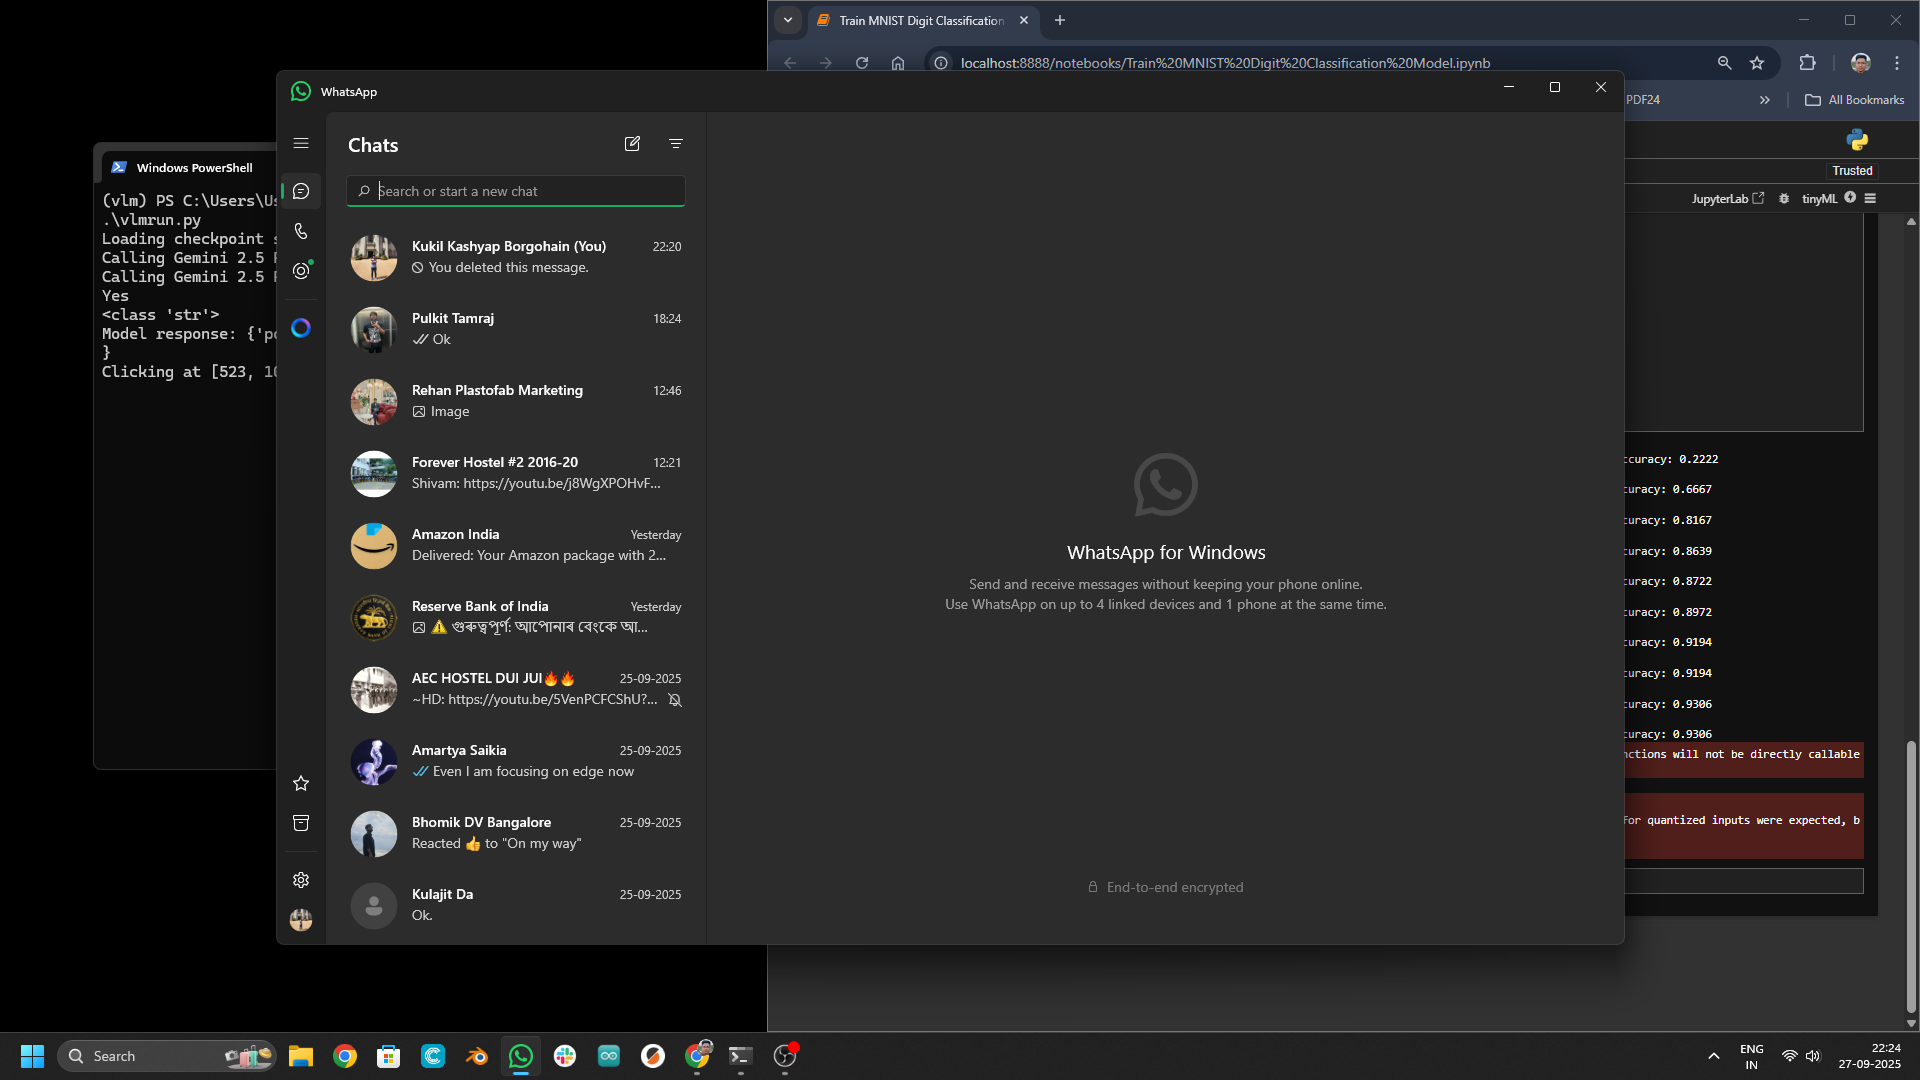
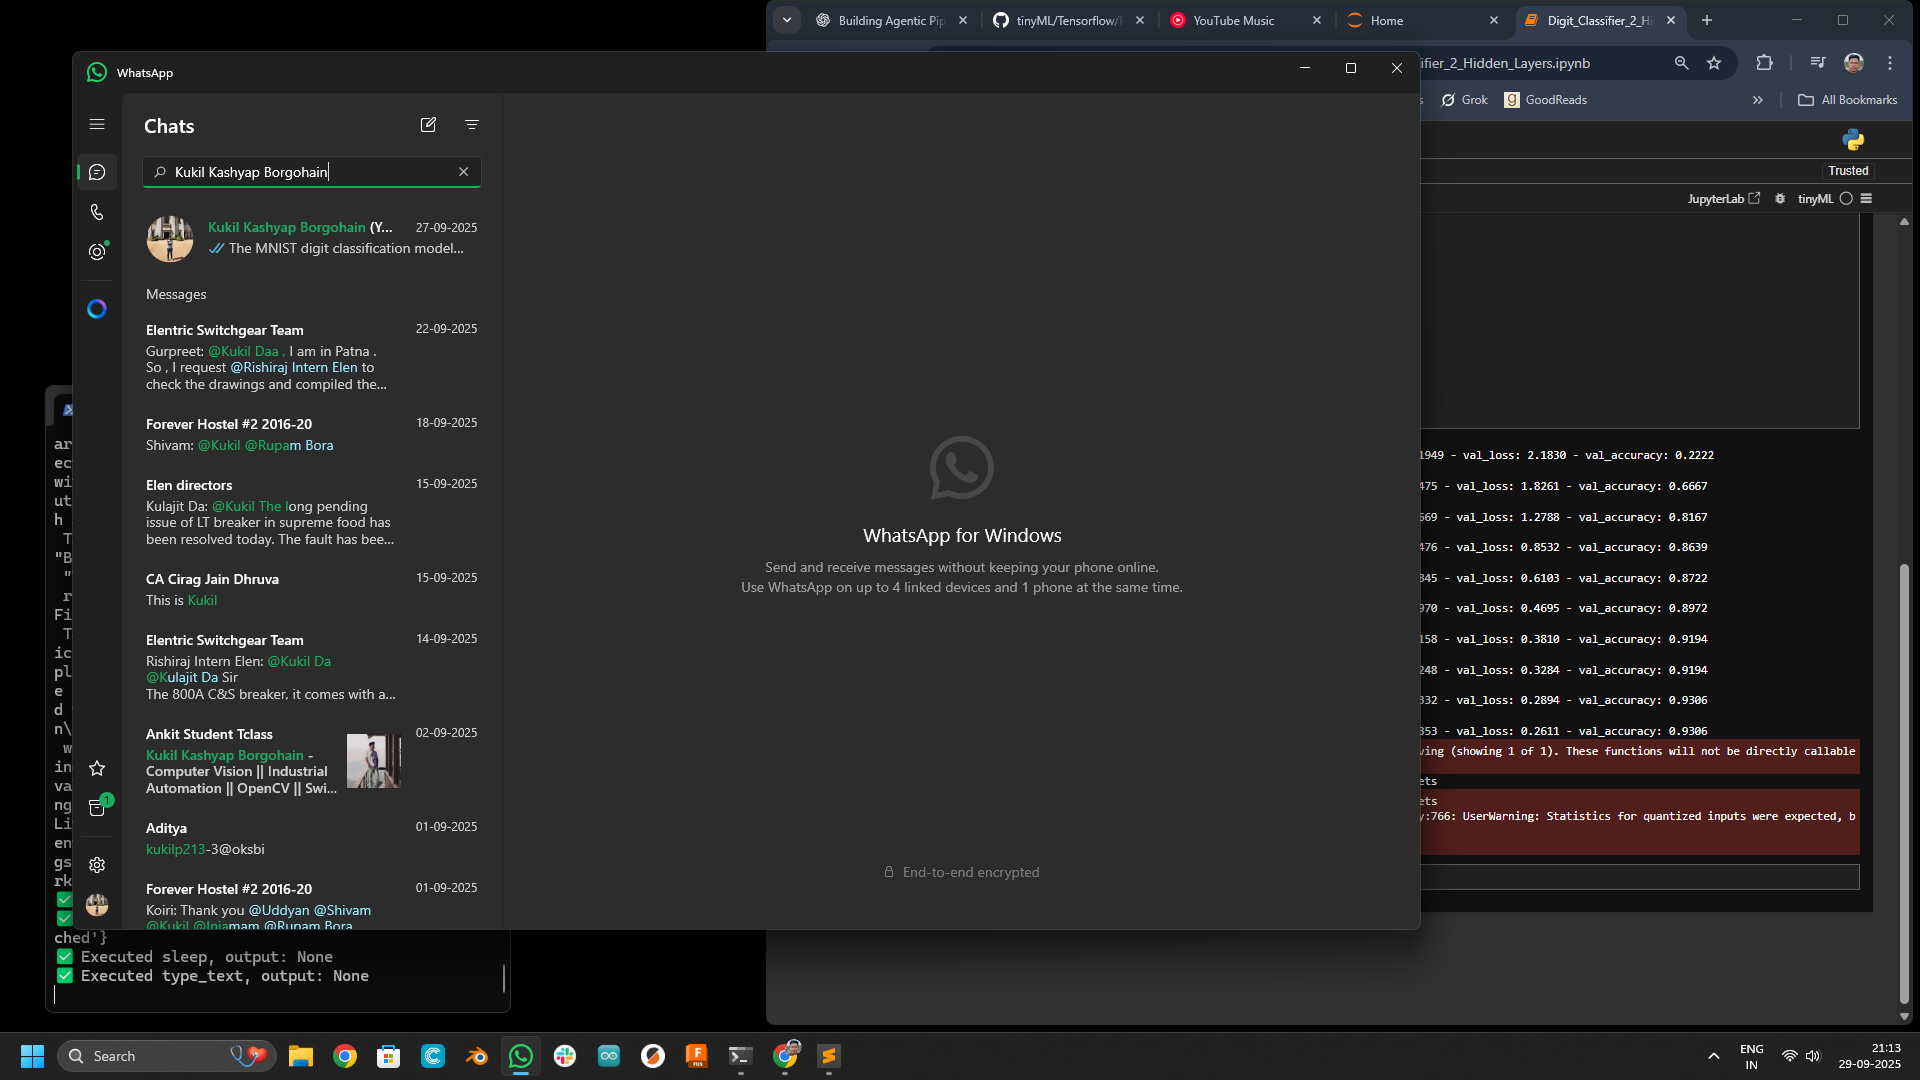
auto agent pipeline - chat selection to be fixed

diff --git a/agent_pipeline.py b/agent_pipeline.py
@@ -1,0 +1,223 @@
+import io
+import re
+import time
+import json
+import torch
+import pyautogui
+from actions import *
+from google import genai
+from PIL import Image, ImageGrab
+from collections import defaultdict
+from transformers import AutoModelForCausalLM, AutoTokenizer
+
+
+# Setup fail-safes
+pyautogui.PAUSE = 2.5
+pyautogui.FAILSAFE = True
+
+# Store outputs from actions
+action_outputs = defaultdict(dict)
+
+
+# Placeholder: Gemini 2.5 Flash
+def read_text_from_image_gemini(client, query):
+    screen_capture = ImageGrab.grab() 
+    # Convert to bytes
+    img_bytes_io = io.BytesIO()
+    screen_capture.save(img_bytes_io, format="PNG") 
+    img_bytes = img_bytes_io.getvalue()
+
+    # Send request
+    print('Calling Gemini 2.5 Flash ..')
+    response = client.models.generate_content(
+        model="gemini-2.5-flash",
+        contents=[
+            {
+                "role": "user",
+                "parts": [
+                    {"text": query},
+                    {"inline_data": {"mime_type": "image/png", "data": img_bytes}},
+                ],
+            }
+        ],
+    )
+
+    return response.text
+
+
+def get_action_plan(client, prompt):
+    system_prompt = f"""
+    You are a gui-native agent planner. Convert the user's instruction into a JSON action plan.
+    Use only the following action schema: 
+      - read_text_from_image_gemini(client, query) 
+      - locate_object_moondream(target_obj, model)
+      - click(x=None, y=None, button="left")
+      - double_click(x=None, y=None)
+      - right_click(x=None, y=None)
+      - move_mouse(x, y, duration=0.2)
+      - press_key(key)
+      - hotkey(*keys)
+      - type_text(text)
+      - clear_field()
+      - launch_app(path)
+      - sleep(seconds=None)
+
+    Pre-defined paths (args) for launch_app action:
+      - "whatsapp" → will resolve to whatsapp://
+      - "chrome"   → C:/Program Files/Google/Chrome/Application/chrome.exe
+      - "edge"     → C:/Program Files (x86)/Microsoft/Edge/Application/msedge.exe
+      - "sublime"  → C:/Program Files/Sublime Text/sublime_text.exe
+      - "slack"    → C:/Users/<YourUser>/AppData/Local/slack/slack.exe
+      - "telegram" → C:/Users/<YourUser>/AppData/Roaming/Telegram Desktop/Telegram.exe
+      - "vscode"   → C:/Users/<YourUser>/AppData/Local/Programs/Microsoft VS Code/Code.exe
+
+
+    Apps other than predefined paths are to be searched onscreen or searched from start menu. Understanding image is for Gemini and locating objects P(x,y) is for Moondream.
+    Sleep time is in seconds. Always start by capturing screen, analysing what's on it, then move on to the next actions. Screen capture for image processing functions are inbuilt using PIL.
+    For whatsApp or Google Chrome, once the app is open, you can start typing name directly. It will type in the search bar. No need to locate the search bar. 
+    But make sure to locate Name(with round profile pic on left) before sending message. Add 2s delay after opening the application.
+
+    Each action must be a JSON object with keys:
+      - "action": action name
+      - "args": dictionary of arguments for that action
+    
+    Only output JSON array of actions. Do not include explanations or extra text.
+    
+    Instruction:
+    {prompt}
+    """
+    print('Generating Action Plan. Please wait ...')
+
+    # Call Gemini
+    response = client.models.generate_content(
+        model="gemini-2.5-flash",
+        contents=[{"role": "user", "parts": [{"text": system_prompt}]}],
+    )
+    print('✅ Done.')
+
+    # Access text properly
+    try:
+        raw_text = response.candidates[0].content.parts[0].text.strip()
+
+        # Remove Markdown fences if present
+        raw_text = re.sub(r"^```(?:json)?|```$", "", raw_text, flags=re.MULTILINE).strip()
+
+        # Now directly parse JSON
+        action_plan = json.loads(raw_text)
+
+        # Validate schema
+        for i, step in enumerate(action_plan):
+            if "action" not in step or "args" not in step:
+                print(f"⚠ Step {i} missing required keys:", step)
+
+        return action_plan
+
+    except Exception as e:
+        print("❌ Error generating action plan:", e)
+        print("Response text:", raw_text[:500])  # preview first 500 chars
+        return []
+
+
+
+def substitute_vars(arg_value):
+    """
+    Replace placeholders like {{var_name}} or {{var_name.key}} with actual values from action_outputs.
+    Works recursively for lists and dicts.
+    """
+    if isinstance(arg_value, str):
+        matches = re.findall(r"{{(.*?)}}", arg_value)
+        for m in matches:
+            parts = m.split(".")
+            var_name = parts[0]
+            key = parts[1] if len(parts) > 1 else None
+            value = action_outputs.get(var_name, {})
+            if key:
+                value = value.get(key, "")
+            arg_value = arg_value.replace(f"{{{{{m}}}}}", str(value))
+        return arg_value
+    elif isinstance(arg_value, list):
+        return [substitute_vars(v) for v in arg_value]
+    elif isinstance(arg_value, dict):
+        return {k: substitute_vars(v) for k, v in arg_value.items()}
+    else:
+        return arg_value
+
+
+
+def execute_actions(action_plan):
+    """
+    Execute a list of actions (from get_action_plan).
+    """
+    for step in action_plan:
+        action_name = step.get("action")
+        args = step.get("args", {})
+        output_var = step.get("output")  # Optional output variable
+
+        # Substitute variables in args
+        args = {k: substitute_vars(v) for k, v in args.items()}
+
+        try:
+            result = None
+
+            if action_name == "click_target":
+                target = args["target"]
+                coords = locate_object_moondream(target_obj, moondream)
+                if coords:
+                    click(coords["x"], coords["y"])
+                    result = coords
+                else:
+                    print(f"❌ Could not locate {target}")
+
+            elif action_name == "read_text_from_image_gemini":
+                query = args.get("prompt", "")
+                result_text = read_text_from_image_gemini(client, query)
+                result = {"text": result_text}
+
+            elif action_name == "locate_object_moondream":
+                desc = args["target_obj"]
+                coords = locate_object_moondream(desc, moondream)
+                result = coords if coords else {}
+
+            elif action_name == "launch_app":
+                app_path = args.get("path")
+                launch_app(app_path)
+                result = {"status": "launched"}
+
+            else:
+                # Map to local functions if available
+                func = globals().get(action_name)
+                if func:
+                    result = func(**args) if args else func()
+                else:
+                    print(f"⚠ Unknown action: {action_name}")
+
+            # Store result in outputs if specified
+            if output_var:
+                action_outputs[output_var] = result
+
+            print(f"✅ Executed {action_name}, output: {result}")
+
+        except Exception as e:
+            print(f"❌ Error executing {action_name}: {e}")
+
+
+
+# Example Usage
+if __name__ == "__main__":
+    time.sleep(0.5)
+    # Load Gemini Client
+    client = genai.Client()
+
+    # Load Moondream 3 preview Model
+    model_name = "moondream/moondream3-preview"
+    moondream = AutoModelForCausalLM.from_pretrained(model_name, trust_remote_code=True, dtype=torch.bfloat16, device_map={"": "cuda"})
+    moondream.compile()
+
+    # Task prompt
+    task_to_do = "Hi please check in 5s interval if classifier training is complete from the jupyter notebook on screen, if yes text Kukil Kashyap Borgohain on WhatsApp and share training statistics."
+
+    # Get action plan from Gen Model
+    action_pln = get_action_plan(client, task_to_do)
+    print(action_pln)
+
+    execute_actions(action_pln)

diff --git a/actions.py b/actions.py
@@ -1,0 +1,118 @@
+import pyautogui
+import pyperclip
+import pygetwindow as gw
+import pytesseract
+import psutil
+import os
+import time
+from PIL import Image, ImageGrab
+
+
+def locate_object_moondream(target_obj, model, rank=2):
+    """
+    Locate an object with Moondream.
+    By default, returns the 2nd top-left-most point (rank=2).
+    You can change `rank` to get the 1st, 3rd, etc.
+    """
+    # Capture current screen
+    screen_capture = ImageGrab.grab()  # PIL image
+    height, width = screen_capture.height, screen_capture.width
+    screen_capture.save("screen.png")
+
+    # Ask Moondream to locate the target object
+    response = model.point(screen_capture, target_obj)
+    print("Model response:", response)
+
+    try:
+        points = response.get("points", [])
+        if not points:
+            raise ValueError("No points returned")
+
+        # Sort by top-left priority (min y, then min x)
+        sorted_points = sorted(points, key=lambda p: (p['y'], p['x']))
+
+        if len(sorted_points) < rank:
+            raise IndexError(f"Less than {rank} points returned")
+
+        # Pick the Nth top-left-most point
+        point = sorted_points[rank - 1]
+
+        abs_x = int(point['x'] * width)
+        abs_y = int(point['y'] * height)
+
+        return {"x": abs_x, "y": abs_y}
+
+    except Exception as e:
+        print("Could not parse response. Got:", response, "Error:", e)
+        return None
+
+
+
+def scroll(amount):
+    """Scroll vertically (positive=up, negative=down)."""
+    pyautogui.scroll(amount)
+
+
+def move_mouse(x, y, duration=0.2):
+    pyautogui.moveTo(x, y, duration=duration)
+
+
+def click(x=None, y=None, button="left"):
+    pyautogui.click(x, y, button=button)
+
+
+def double_click(x=None, y=None):
+    pyautogui.doubleClick(x, y)
+
+
+def right_click(x=None, y=None):
+    pyautogui.rightClick(x, y)
+
+
+def drag_and_drop(x1, y1, x2, y2, duration=0.5):
+    pyautogui.moveTo(x1, y1)
+    pyautogui.dragTo(x2, y2, duration=duration)
+
+
+def press_key(key):
+    pyautogui.press(key)
+
+
+def hotkey(*keys):
+    pyautogui.hotkey(*keys)
+
+
+def type_text(text):
+    pyautogui.typewrite(text, interval=0.05)
+
+
+def clear_field():
+    pyautogui.hotkey("ctrl", "a")
+    pyautogui.press("backspace")
+
+def launch_app(path):
+    try:
+        if path == "whatsapp":
+            os.startfile("whatsapp://")  # this opens WhatsApp if protocol registered
+        else:
+            os.startfile(path)
+        print(f"✅ Launched {path}")
+    except Exception as e:
+        print(f"❌ Could not launch {path}: {e}")
+
+def is_process_running(name):
+    """Check if process is running by name."""
+    return any(name.lower() in p.name().lower() for p in psutil.process_iter())
+
+def kill_process(name):
+    for p in psutil.process_iter():
+        if name.lower() in p.name().lower():
+            p.terminate()
+            return True
+    return False
+
+def sleep(seconds=None):
+    """Pause execution for N seconds"""
+    if seconds is not None:
+        time.sleep(seconds)
+

diff --git a/gemini.py b/gemini.py
@@ -2,7 +2,7 @@ import io
 import pyautogui
 from google import genai
 
-client = genai.Client(api_key="AIzaSyB6caWuNx4uYKrNXQWVgXzJOcGxIJdJYSs")
+client = genai.Client(api_key="AIzaSyBBSLU77PES2mVDy049pvwppKe-HVFJrzo")
 
 # Capture screenshot
 screenshot = pyautogui.screenshot()
@@ -19,7 +19,7 @@ response = client.models.generate_content(
         {
             "role": "user",
             "parts": [
-                {"text": "is the model training complete in the jupyter notebook? Answer in Yes or No."},
+                {"text": "Describe the image in 100 words"},
                 {"inline_data": {"mime_type": "image/png", "data": img_bytes}},
             ],
         }
@@ -27,3 +27,14 @@ response = client.models.generate_content(
 )
 
 print(response.text)
+
+
+# from google.api_core.client_options import ClientOptions
+# from google.generativeai import Client as GAClient
+
+# api_key = "AIzaSyBBSLU77PES2mVDy049pvwppKe-HVFJrzo"
+# client = GAClient(api_key=api_key)
+
+# # Test a simple request
+# response = client.generate_text(prompt="Hello world", max_output_tokens=10)
+# print(response.text)

diff --git a/test-api.py b/test-api.py
@@ -1,0 +1,8 @@
+import os
+
+api_key = os.environ.get("GEMINI_API_KEY")
+
+if not api_key:
+    raise ValueError("GEMINI_API_KEY not set in environment variables!")
+
+print("API Key loaded successfully")
